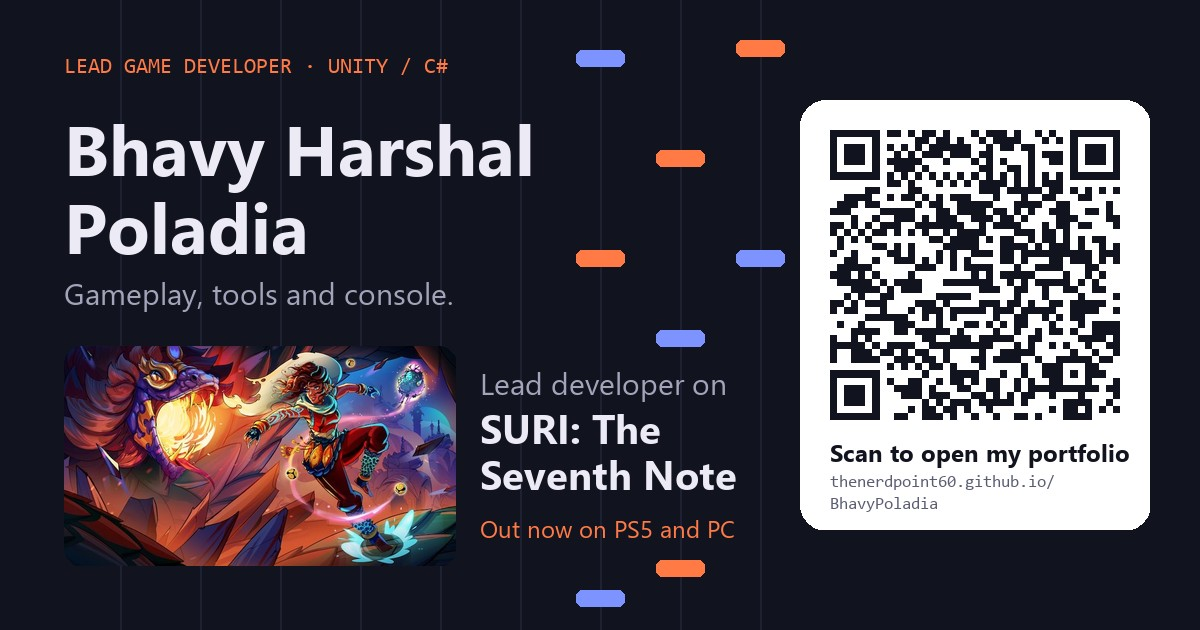
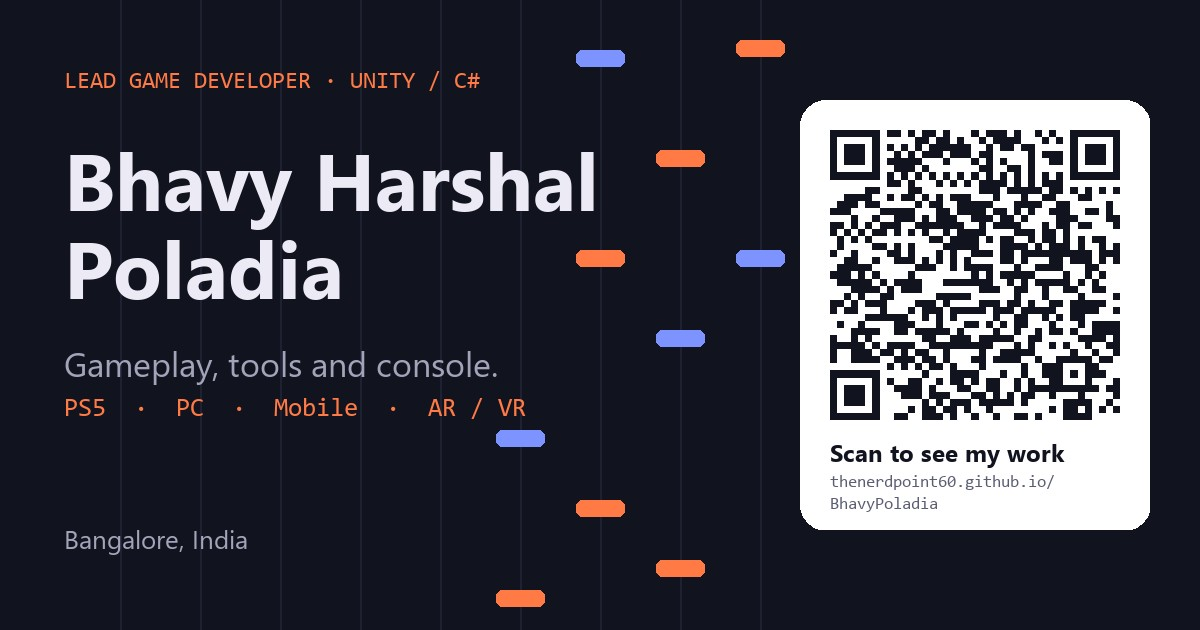
Make site and preview about the developer, not one game

diff --git a/index.html b/index.html
@@ -4,15 +4,15 @@
 <meta charset="utf-8">
 <meta name="viewport" content="width=device-width, initial-scale=1, viewport-fit=cover">
 <title>Bhavy Poladia · Game Developer</title>
-<meta name="description" content="Bhavy Harshal Poladia, Lead Game Developer (Unity / C#). Gameplay, tools and console development. Lead developer on SURI: The Seventh Note, out now on PS5 and PC.">
+<meta name="description" content="Bhavy Harshal Poladia, Lead Game Developer (Unity / C#). Gameplay, tools and console development. Shipped on PS5, PC and mobile.">
 <meta property="og:title" content="Bhavy Poladia · Lead Game Developer">
-<meta property="og:description" content="Unity / C# gameplay, tools and console development. Lead developer on SURI: The Seventh Note, out now on PS5 and PC.">
+<meta property="og:description" content="Unity / C# gameplay, tools and console development. Games, projects and resume.">
 <meta property="og:type" content="website">
 <meta property="og:url" content="https://thenerdpoint60.github.io/BhavyPoladia/">
 <meta property="og:image" content="https://thenerdpoint60.github.io/BhavyPoladia/images/og-image.jpg">
 <meta property="og:image:width" content="1200">
 <meta property="og:image:height" content="630">
-<meta property="og:image:alt" content="Bhavy Harshal Poladia, Lead Game Developer, with SURI: The Seventh Note key art and a QR code to this portfolio">
+<meta property="og:image:alt" content="Bhavy Harshal Poladia, Lead Game Developer, with a QR code to this portfolio">
 <meta name="twitter:card" content="summary_large_image">
 <meta name="twitter:title" content="Bhavy Poladia · Lead Game Developer">
 <meta name="twitter:image" content="https://thenerdpoint60.github.io/BhavyPoladia/images/og-image.jpg">
@@ -240,7 +240,7 @@ footer .wrap { display: flex; justify-content: space-between; gap: 16px; flex-wr
   <div>
     <span class="eyebrow">Lead Game Developer · Bangalore, India</span>
     <h1>Bhavy Harshal Poladia builds games that <em>feel right</em> on the beat.</h1>
-    <p class="lead">Unity and C# developer with 6+ years across gameplay, tools and console. Lead developer on SURI: The Seventh Note, out now on PS5 and PC.</p>
+    <p class="lead">Unity and C# developer with 6+ years across gameplay, tools and console. Currently leading a PS5 and PC title.</p>
     <div class="ctas">
       <a class="btn primary" href="resume.pdf" target="_blank" rel="noopener">Download resume</a>
       <a class="btn" href="#contact">Get in touch</a>
@@ -260,7 +260,7 @@ footer .wrap { display: flex; justify-content: space-between; gap: 16px; flex-wr
 <div class="wrap">
   <div class="stats">
     <div class="stat"><b>6+</b><span>years in Unity / C#</span></div>
-    <div class="stat"><b>PS5 + PC</b><span>SURI released Oct 2026</span></div>
+    <div class="stat"><b>PS5 + PC</b><span>console title released 2026</span></div>
     <div class="stat"><b>17</b><span>games published on itch.io</span></div>
     <div class="stat"><b>5</b><span>studios worked at</span></div>
   </div>
@@ -268,8 +268,8 @@ footer .wrap { display: flex; justify-content: space-between; gap: 16px; flex-wr
 
 <section id="suri">
   <div class="wrap">
-    <span class="eyebrow">Featured · released October 2026</span>
-    <h2>Lead developer on SURI: The Seventh Note</h2>
+    <span class="eyebrow">Selected work</span>
+    <h2>SURI: The Seventh Note</h2>
     <div class="suri-grid">
       <div class="video" id="suri-video" data-id="LOg0r2yGG4s">
         <button type="button" class="video-play" aria-label="Play the SURI gameplay trailer">
